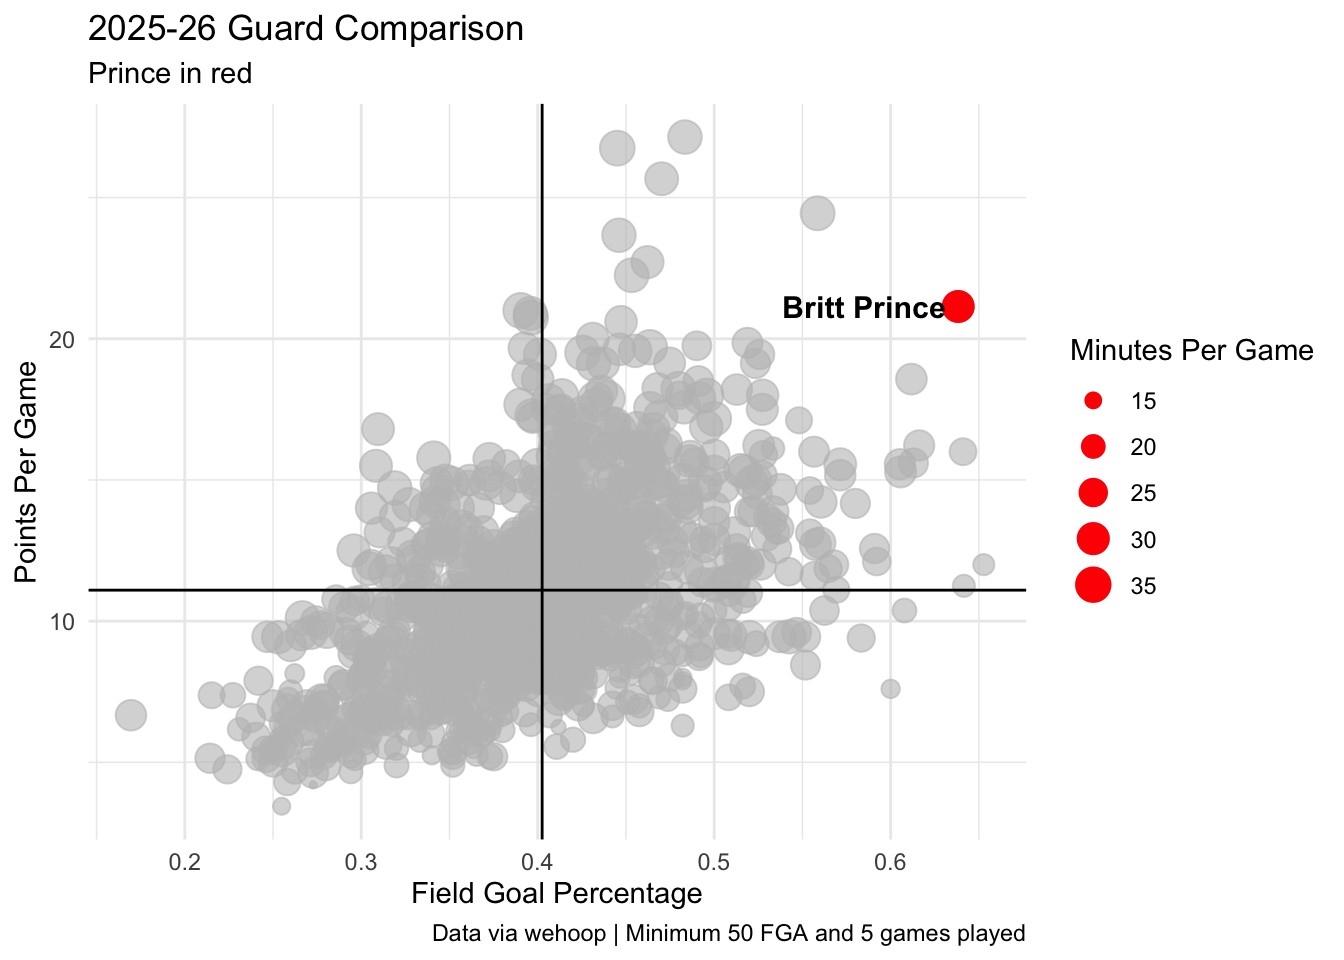
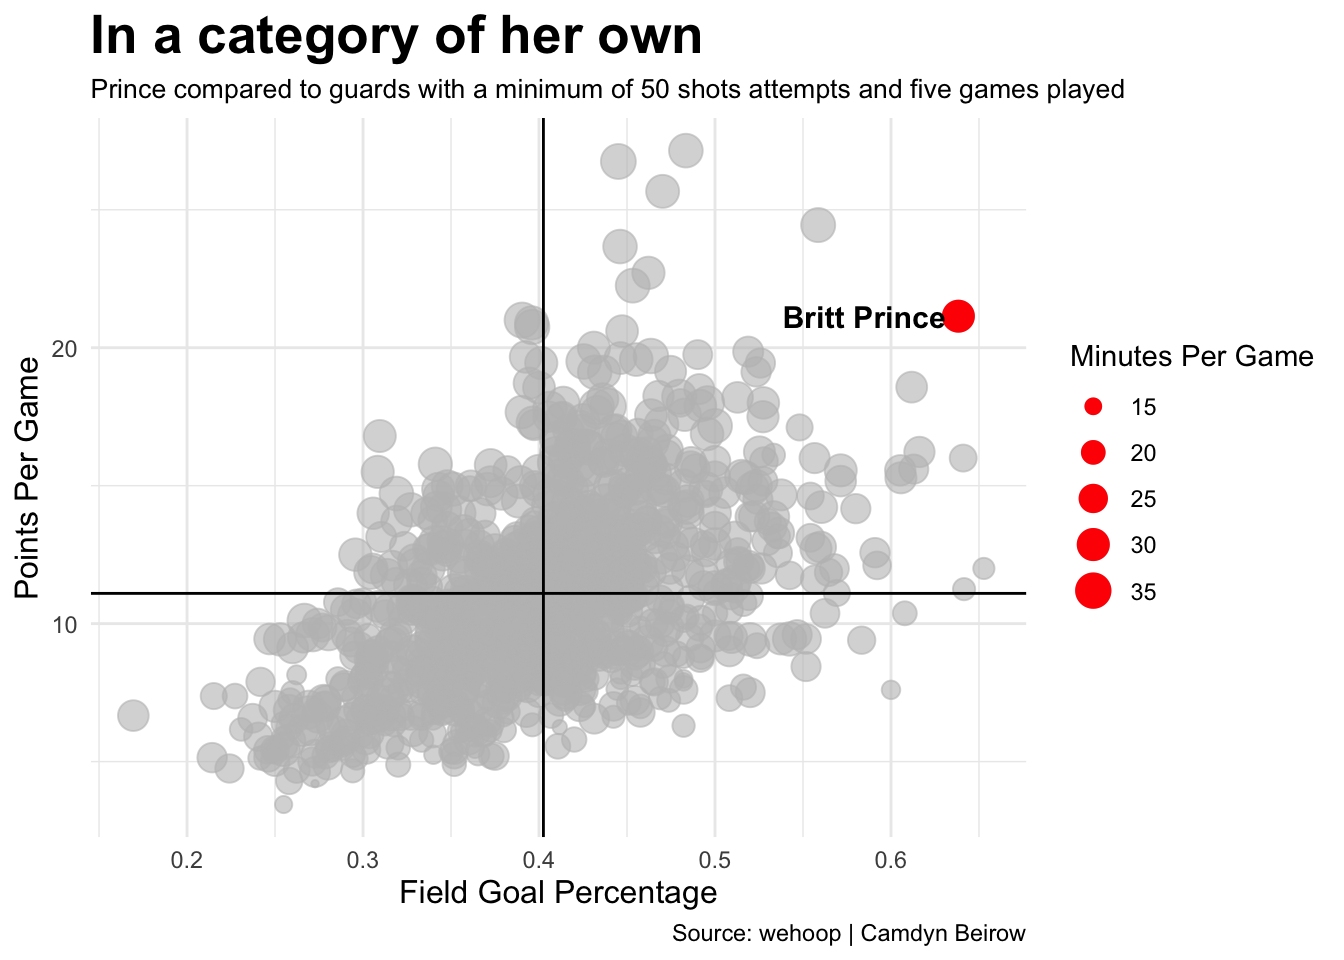
final1

diff --git a/posts/britt-prince-second-year-improvements/index.html b/posts/britt-prince-second-year-improvements/index.html
@@ -320,16 +320,15 @@ pre > code.sourceCode > span > a:first-child::before { text-decoration: underlin
 <span id="cb1-123"><a href="#cb1-123" aria-hidden="true" tabindex="-1"></a></span>
 <span id="cb1-124"><a href="#cb1-124" aria-hidden="true" tabindex="-1"></a>freshman_chart <span class="sc">+</span> sophomore_chart <span class="sc">+</span></span>
 <span id="cb1-125"><a href="#cb1-125" aria-hidden="true" tabindex="-1"></a> <span class="fu">plot_annotation</span>(</span>
-<span id="cb1-126"><a href="#cb1-126" aria-hidden="true" tabindex="-1"></a>    <span class="at">title =</span> <span class="st">"This is a title and we need to tell a story with it"</span>,</span>
-<span id="cb1-127"><a href="#cb1-127" aria-hidden="true" tabindex="-1"></a>    <span class="at">subtitle =</span> <span class="st">"This is the subtitle and we need to add context to the chart here."</span>,</span>
+<span id="cb1-126"><a href="#cb1-126" aria-hidden="true" tabindex="-1"></a>    <span class="at">title =</span> <span class="st">"What a difference a year makes"</span>,</span>
+<span id="cb1-127"><a href="#cb1-127" aria-hidden="true" tabindex="-1"></a>    <span class="at">subtitle =</span> <span class="st">"Prince's scoring ability spikes during her sophomore year campaign"</span>,</span>
 <span id="cb1-128"><a href="#cb1-128" aria-hidden="true" tabindex="-1"></a>    <span class="at">caption =</span> <span class="st">"Source: wehoop | Camdyn Beirow"</span></span>
 <span id="cb1-129"><a href="#cb1-129" aria-hidden="true" tabindex="-1"></a>  )  <span class="sc">&amp;</span> </span>
 <span id="cb1-130"><a href="#cb1-130" aria-hidden="true" tabindex="-1"></a>  <span class="fu">theme</span>(</span>
-<span id="cb1-131"><a href="#cb1-131" aria-hidden="true" tabindex="-1"></a>    <span class="at">plot.title =</span> <span class="fu">element_text</span>(<span class="at">size =</span> <span class="dv">16</span>, <span class="at">face =</span> <span class="st">"bold"</span>),</span>
-<span id="cb1-132"><a href="#cb1-132" aria-hidden="true" tabindex="-1"></a>    <span class="at">axis.title =</span> <span class="fu">element_text</span>(<span class="at">size =</span> <span class="dv">8</span>), </span>
-<span id="cb1-133"><a href="#cb1-133" aria-hidden="true" tabindex="-1"></a>    <span class="at">plot.subtitle =</span> <span class="fu">element_text</span>(<span class="at">size=</span><span class="dv">10</span>), </span>
-<span id="cb1-134"><a href="#cb1-134" aria-hidden="true" tabindex="-1"></a>    <span class="at">panel.grid.minor =</span> <span class="fu">element_blank</span>()</span>
-<span id="cb1-135"><a href="#cb1-135" aria-hidden="true" tabindex="-1"></a>  )</span></code><button title="Copy to Clipboard" class="code-copy-button"><i class="bi"></i></button></pre></div>
+<span id="cb1-131"><a href="#cb1-131" aria-hidden="true" tabindex="-1"></a>    <span class="at">plot.title =</span> <span class="fu">element_text</span>(<span class="at">size =</span> <span class="dv">20</span>, <span class="at">face =</span> <span class="st">"bold"</span>),</span>
+<span id="cb1-132"><a href="#cb1-132" aria-hidden="true" tabindex="-1"></a>    <span class="at">axis.title =</span> <span class="fu">element_text</span>(<span class="at">size =</span> <span class="dv">12</span>), </span>
+<span id="cb1-133"><a href="#cb1-133" aria-hidden="true" tabindex="-1"></a>    <span class="at">plot.subtitle =</span> <span class="fu">element_text</span>(<span class="at">size=</span><span class="dv">10</span>),</span>
+<span id="cb1-134"><a href="#cb1-134" aria-hidden="true" tabindex="-1"></a>    ) </span></code><button title="Copy to Clipboard" class="code-copy-button"><i class="bi"></i></button></pre></div>
 </details>
 <div class="cell-output-display">
 <div>
@@ -354,13 +353,18 @@ pre > code.sourceCode > span > a:first-child::before { text-decoration: underlin
 <span id="cb2-8"><a href="#cb2-8" aria-hidden="true" tabindex="-1"></a>            <span class="at">vjust =</span> <span class="fl">0.5</span>, <span class="at">size =</span> <span class="dv">4</span>, <span class="at">color =</span> <span class="st">"black"</span>, <span class="at">fontface =</span> <span class="st">"bold"</span>) <span class="sc">+</span></span>
 <span id="cb2-9"><a href="#cb2-9" aria-hidden="true" tabindex="-1"></a>   <span class="fu">geom_vline</span>(<span class="at">xintercept =</span> <span class="fl">0.4024973</span>) <span class="sc">+</span> </span>
 <span id="cb2-10"><a href="#cb2-10" aria-hidden="true" tabindex="-1"></a>  <span class="fu">geom_hline</span>(<span class="at">yintercept =</span> <span class="fl">11.09659</span>) <span class="sc">+</span></span>
-<span id="cb2-11"><a href="#cb2-11" aria-hidden="true" tabindex="-1"></a>  <span class="fu">labs</span>(<span class="at">title =</span> <span class="st">"2025-26 Guard Comparison"</span>,</span>
-<span id="cb2-12"><a href="#cb2-12" aria-hidden="true" tabindex="-1"></a>       <span class="at">subtitle =</span> <span class="st">"Prince in red"</span>,</span>
+<span id="cb2-11"><a href="#cb2-11" aria-hidden="true" tabindex="-1"></a>  <span class="fu">labs</span>(<span class="at">title =</span> <span class="st">"In a category of her own"</span>,</span>
+<span id="cb2-12"><a href="#cb2-12" aria-hidden="true" tabindex="-1"></a>       <span class="at">subtitle =</span> <span class="st">"Prince compared to guards with a minimum of 50 shots attempts and five games played"</span>,</span>
 <span id="cb2-13"><a href="#cb2-13" aria-hidden="true" tabindex="-1"></a>       <span class="at">x =</span> <span class="st">"Field Goal Percentage"</span>,</span>
 <span id="cb2-14"><a href="#cb2-14" aria-hidden="true" tabindex="-1"></a>       <span class="at">y =</span> <span class="st">"Points Per Game"</span>,</span>
 <span id="cb2-15"><a href="#cb2-15" aria-hidden="true" tabindex="-1"></a>       <span class="at">size =</span> <span class="st">"Minutes Per Game"</span>,</span>
-<span id="cb2-16"><a href="#cb2-16" aria-hidden="true" tabindex="-1"></a>       <span class="at">caption =</span> <span class="st">"Data via wehoop | Minimum 50 FGA and 5 games played"</span>) <span class="sc">+</span></span>
-<span id="cb2-17"><a href="#cb2-17" aria-hidden="true" tabindex="-1"></a>  <span class="fu">theme_minimal</span>()</span></code><button title="Copy to Clipboard" class="code-copy-button"><i class="bi"></i></button></pre></div>
+<span id="cb2-16"><a href="#cb2-16" aria-hidden="true" tabindex="-1"></a>       <span class="at">caption =</span> <span class="st">"Source: wehoop | Camdyn Beirow"</span>) <span class="sc">+</span></span>
+<span id="cb2-17"><a href="#cb2-17" aria-hidden="true" tabindex="-1"></a>  <span class="fu">theme_minimal</span>()  <span class="sc">+</span> </span>
+<span id="cb2-18"><a href="#cb2-18" aria-hidden="true" tabindex="-1"></a>  <span class="fu">theme</span>(</span>
+<span id="cb2-19"><a href="#cb2-19" aria-hidden="true" tabindex="-1"></a>    <span class="at">plot.title =</span> <span class="fu">element_text</span>(<span class="at">size =</span> <span class="dv">20</span>, <span class="at">face =</span> <span class="st">"bold"</span>),</span>
+<span id="cb2-20"><a href="#cb2-20" aria-hidden="true" tabindex="-1"></a>    <span class="at">axis.title =</span> <span class="fu">element_text</span>(<span class="at">size =</span> <span class="dv">12</span>), </span>
+<span id="cb2-21"><a href="#cb2-21" aria-hidden="true" tabindex="-1"></a>    <span class="at">plot.subtitle =</span> <span class="fu">element_text</span>(<span class="at">size=</span><span class="dv">10</span>),</span>
+<span id="cb2-22"><a href="#cb2-22" aria-hidden="true" tabindex="-1"></a>    ) </span></code><button title="Copy to Clipboard" class="code-copy-button"><i class="bi"></i></button></pre></div>
 </details>
 <div class="cell-output-display">
 <div>
@@ -382,13 +386,19 @@ pre > code.sourceCode > span > a:first-child::before { text-decoration: underlin
 <span id="cb3-5"><a href="#cb3-5" aria-hidden="true" tabindex="-1"></a>  <span class="fu">scale_x_continuous</span>(<span class="at">breaks =</span> <span class="dv">1</span><span class="sc">:</span><span class="dv">8</span>) <span class="sc">+</span></span>
 <span id="cb3-6"><a href="#cb3-6" aria-hidden="true" tabindex="-1"></a>  <span class="fu">scale_color_manual</span>(<span class="at">values =</span> <span class="fu">c</span>(<span class="st">"Freshman (2024-25)"</span> <span class="ot">=</span> <span class="st">"grey"</span>, </span>
 <span id="cb3-7"><a href="#cb3-7" aria-hidden="true" tabindex="-1"></a>                                <span class="st">"Sophomore (2025-26)"</span> <span class="ot">=</span> <span class="st">"red"</span>)) <span class="sc">+</span></span>
-<span id="cb3-8"><a href="#cb3-8" aria-hidden="true" tabindex="-1"></a>  <span class="fu">labs</span>(<span class="at">title =</span> <span class="st">"Britt Prince PRA Comparison"</span>,</span>
-<span id="cb3-9"><a href="#cb3-9" aria-hidden="true" tabindex="-1"></a>       <span class="at">subtitle =</span> <span class="st">"PRA Comp"</span>,</span>
+<span id="cb3-8"><a href="#cb3-8" aria-hidden="true" tabindex="-1"></a>  <span class="fu">labs</span>(<span class="at">title =</span> <span class="st">"A step up for Britt Prince"</span>,</span>
+<span id="cb3-9"><a href="#cb3-9" aria-hidden="true" tabindex="-1"></a>       <span class="at">subtitle =</span> <span class="st">"PRA (points, rebounds, assists) comapred from Freshman to Sophomore Year"</span>,</span>
 <span id="cb3-10"><a href="#cb3-10" aria-hidden="true" tabindex="-1"></a>       <span class="at">x =</span> <span class="st">"Game Number"</span>, </span>
 <span id="cb3-11"><a href="#cb3-11" aria-hidden="true" tabindex="-1"></a>       <span class="at">y =</span> <span class="st">"Cumulative PRA"</span>,</span>
-<span id="cb3-12"><a href="#cb3-12" aria-hidden="true" tabindex="-1"></a>       <span class="at">color =</span> <span class="st">"Season"</span>) <span class="sc">+</span></span>
-<span id="cb3-13"><a href="#cb3-13" aria-hidden="true" tabindex="-1"></a>  <span class="fu">theme_minimal</span>() <span class="sc">+</span></span>
-<span id="cb3-14"><a href="#cb3-14" aria-hidden="true" tabindex="-1"></a>  <span class="fu">theme</span>(<span class="at">legend.position =</span> <span class="st">"bottom"</span>)</span></code><button title="Copy to Clipboard" class="code-copy-button"><i class="bi"></i></button></pre></div>
+<span id="cb3-12"><a href="#cb3-12" aria-hidden="true" tabindex="-1"></a>       <span class="at">caption =</span> <span class="st">"Source: wehoop | Camdyn Beirow"</span>,</span>
+<span id="cb3-13"><a href="#cb3-13" aria-hidden="true" tabindex="-1"></a>       <span class="at">color =</span> <span class="st">"Season"</span>) <span class="sc">+</span></span>
+<span id="cb3-14"><a href="#cb3-14" aria-hidden="true" tabindex="-1"></a>  <span class="fu">theme_minimal</span>() <span class="sc">+</span></span>
+<span id="cb3-15"><a href="#cb3-15" aria-hidden="true" tabindex="-1"></a>  <span class="fu">theme</span>(<span class="at">legend.position =</span> <span class="st">"bottom"</span>)  <span class="sc">+</span> </span>
+<span id="cb3-16"><a href="#cb3-16" aria-hidden="true" tabindex="-1"></a>  <span class="fu">theme</span>(</span>
+<span id="cb3-17"><a href="#cb3-17" aria-hidden="true" tabindex="-1"></a>    <span class="at">plot.title =</span> <span class="fu">element_text</span>(<span class="at">size =</span> <span class="dv">20</span>, <span class="at">face =</span> <span class="st">"bold"</span>),</span>
+<span id="cb3-18"><a href="#cb3-18" aria-hidden="true" tabindex="-1"></a>    <span class="at">axis.title =</span> <span class="fu">element_text</span>(<span class="at">size =</span> <span class="dv">12</span>), </span>
+<span id="cb3-19"><a href="#cb3-19" aria-hidden="true" tabindex="-1"></a>    <span class="at">plot.subtitle =</span> <span class="fu">element_text</span>(<span class="at">size=</span><span class="dv">10</span>)</span>
+<span id="cb3-20"><a href="#cb3-20" aria-hidden="true" tabindex="-1"></a>    ) </span></code><button title="Copy to Clipboard" class="code-copy-button"><i class="bi"></i></button></pre></div>
 </details>
 <div class="cell-output-display">
 <div>
@@ -399,6 +409,7 @@ pre > code.sourceCode > span > a:first-child::before { text-decoration: underlin
 </div>
 </div>
 <p>Prince’s sophomore season has seen her accumulate 232 PRA, while her freshman year saw her earn 166 PRA through the first eight games of their respective seasons.The data points to Prince contributing more to the team in her sophomore season than her freshman season. The reasoning behind this is based off of the first to second year jump players take, as well as Prince becoming the first option for the team when Nebraska post Alexis Markowski concluded her final year prior to the 2025-2026 season.</p>
+<p>Britt Prince’s second year may very well be marking the start of a remarkable college legecy and a program builder for the Nebraska Cornhuskers. With an incredible scoring leap from year one to two while maintaining her assists per game, Prince could very well be the best guard to go through Nebraska when it is all said and done.</p>
 
 
 

diff --git a/index.html b/index.html
@@ -205,7 +205,7 @@ window.Quarto = {
 
 <div class="quarto-listing quarto-listing-container-default" id="listing-listing">
 <div class="list quarto-listing-default">
-<div class="quarto-post image-right" data-index="0" data-categories="TkNBQSUyQ05DQUFXJTJDQnJpdHQlMjBQcmluY2U=" data-listing-date-sort="1764914400000" data-listing-file-modified-sort="1764962255080" data-listing-date-modified-sort="NaN" data-listing-reading-time-sort="8" data-listing-word-count-sort="1426">
+<div class="quarto-post image-right" data-index="0" data-categories="TkNBQSUyQ05DQUFXJTJDQnJpdHQlMjBQcmluY2U=" data-listing-date-sort="1764914400000" data-listing-file-modified-sort="1764982911759" data-listing-date-modified-sort="NaN" data-listing-reading-time-sort="8" data-listing-word-count-sort="1572">
 <div class="thumbnail">
 <p><a href="./posts/britt-prince-second-year-improvements/index.html" class="no-external"></a></p><a href="./posts/britt-prince-second-year-improvements/index.html" class="no-external">
 <p><img loading="lazy" src="./posts/britt-prince-second-year-improvements/image.png" class="thumbnail-image"></p>
